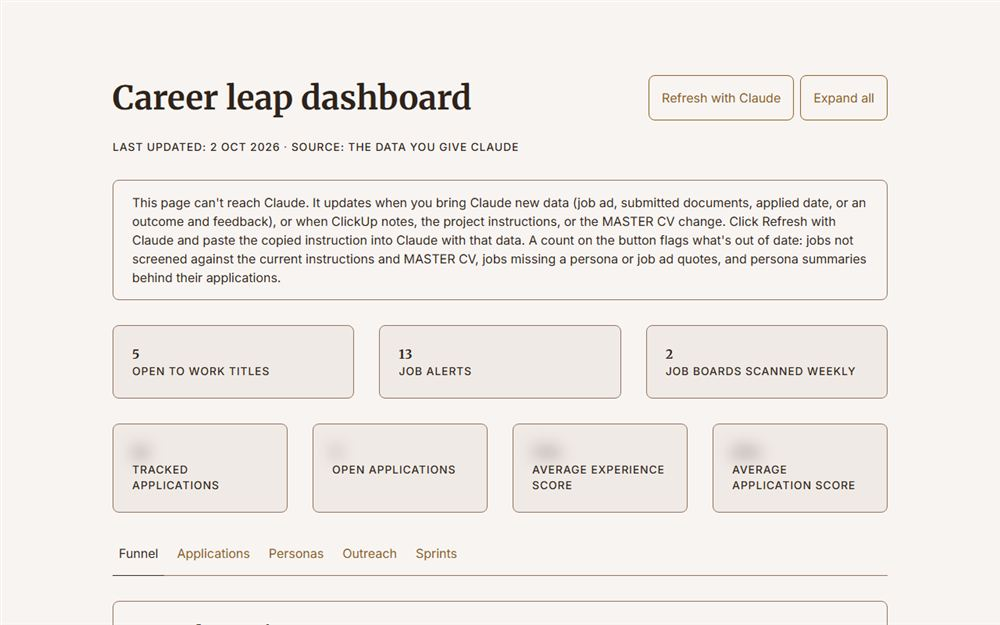
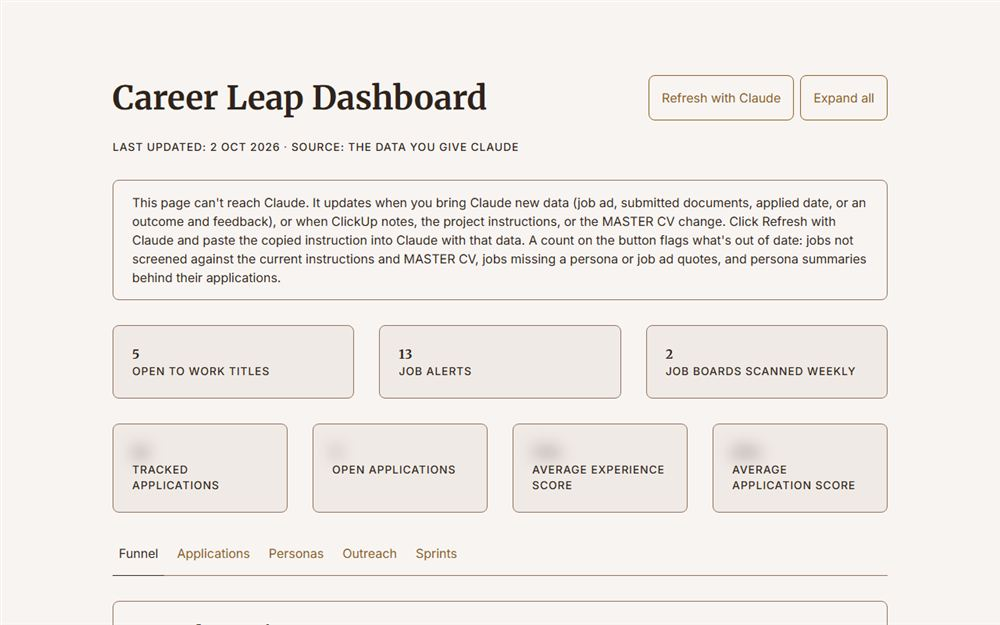
Retitle the design system page, refresh the three AI-native builds images (#78)
- Design system page heading: "The Balanced Architect"
- Recaptured the Career Leap Dashboard, Wealth Builder Dashboard and
  design system images with the updated titles. Same blur treatment:
  four Career stats blurred; every Wealth figure, the bank line and the
  accounts table blurred, so no account details are published.

Changed region(s): [[0.217, 0.1216, 0.496, 0.1824]]

diff --git a/design-system.html b/design-system.html
@@ -171,7 +171,7 @@ footer.doc .row{display:flex;flex-direction:column;gap:8px}
 </div>
 
 <div class="hero wrap">
-  <h1 class="font-serif">Balanced Architect</h1>
+  <h1 class="font-serif">The Balanced Architect</h1>
   <p class="lede">Type, color, spacing, and component rules.</p>
   <div class="meta-row">
     <img src="https://img.shields.io/badge/Built_with-Claude-D97757?logo=claude&amp;logoColor=fff" alt="Built with Claude" height="20">
